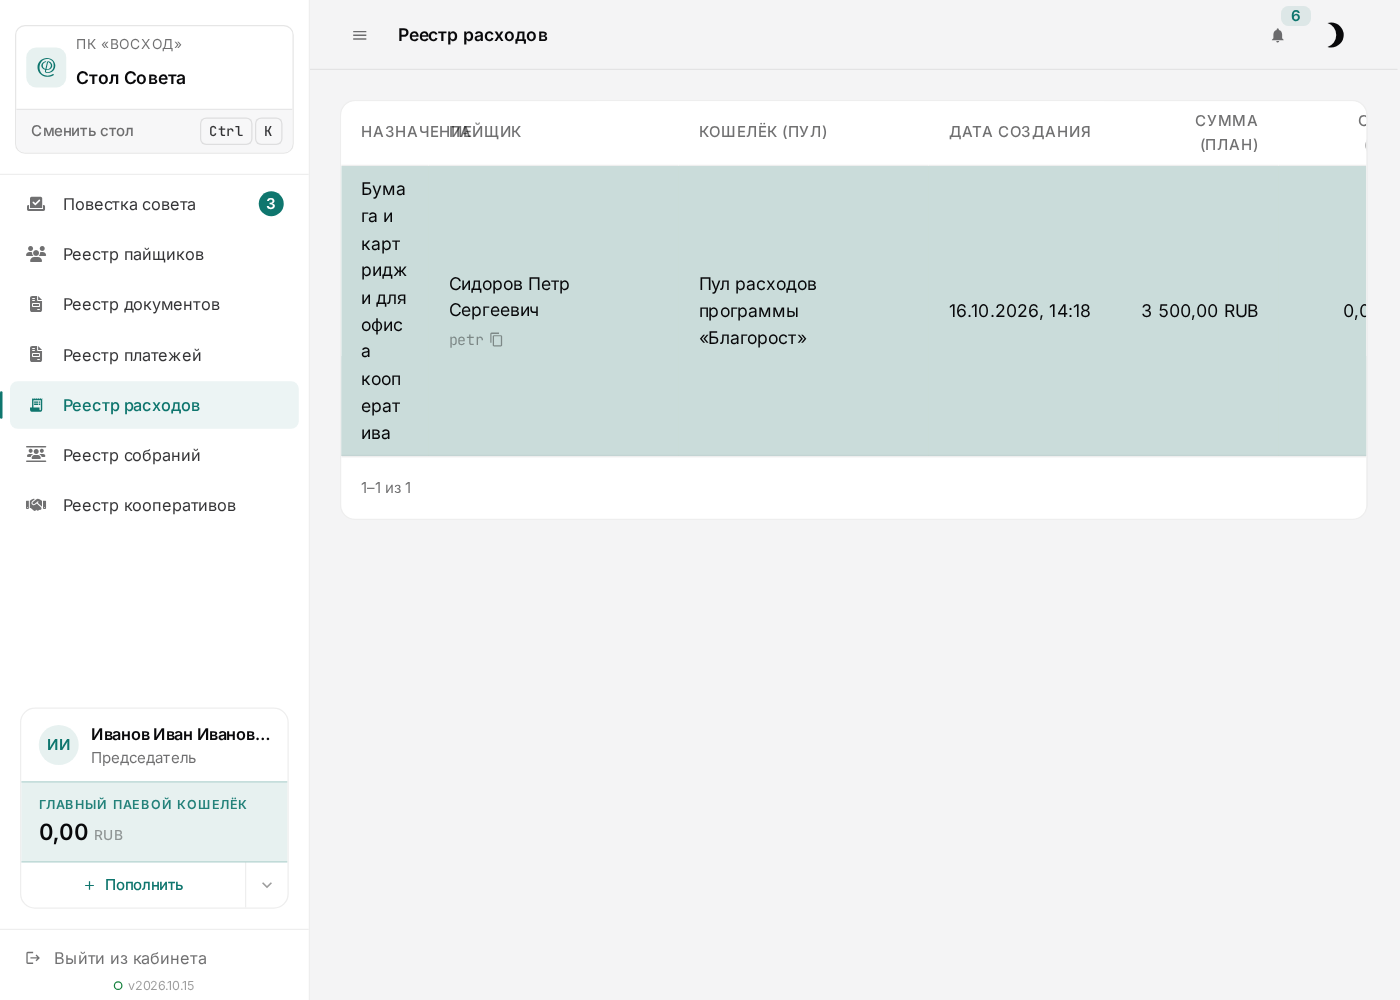
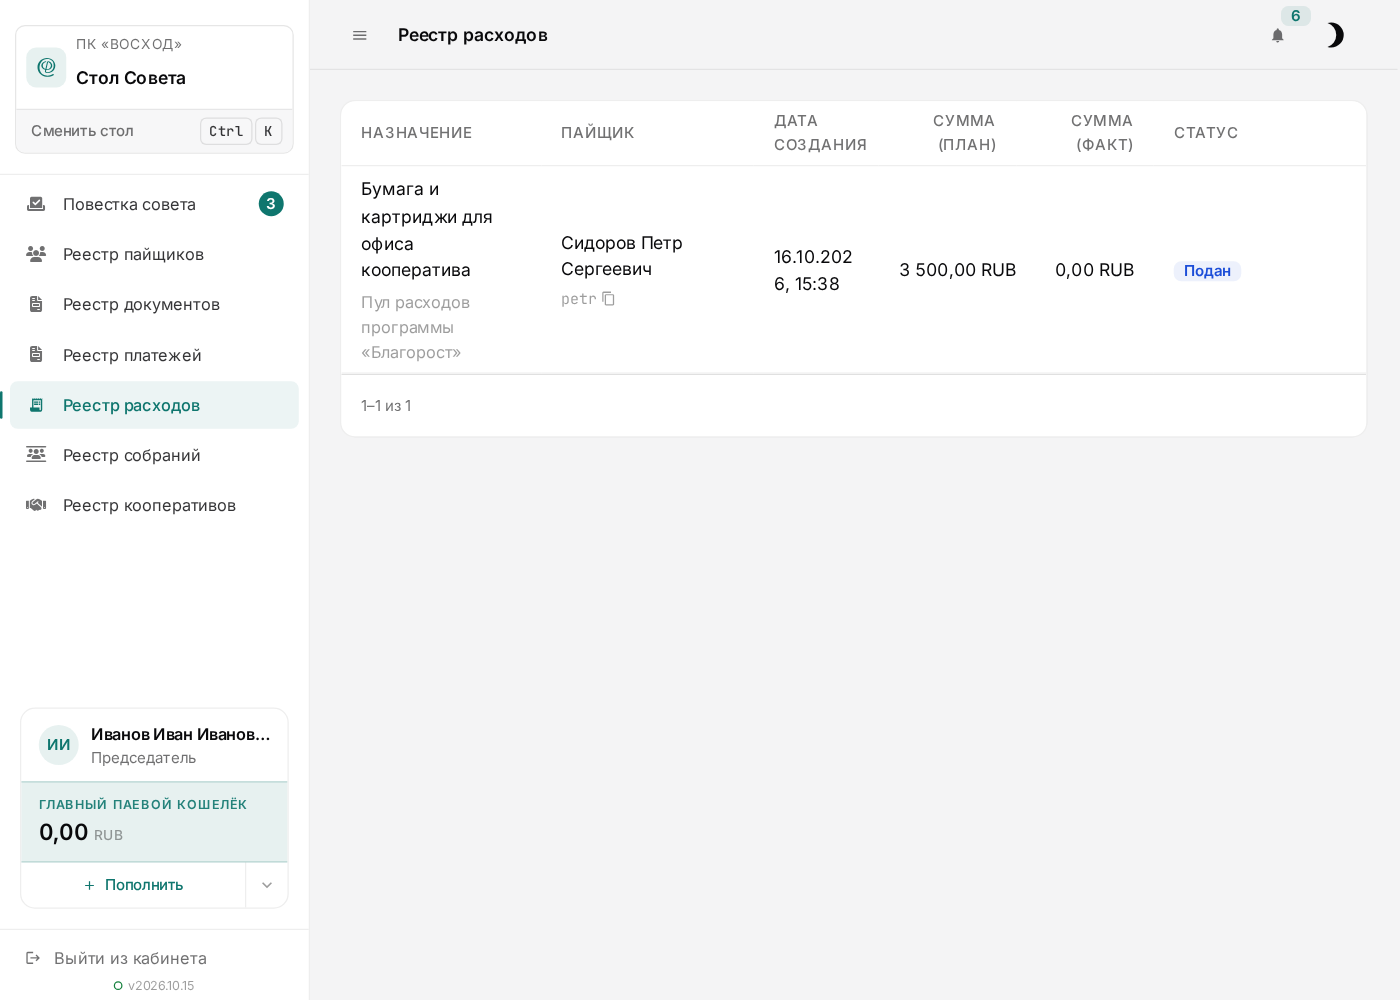
[7DD-25][@ant] fix: реестр расходов совета — дате 120 px, пайщику 150, кадры и текст под строку с кошельком под назначением — зачем: в колонке 100 px год рвался на две строки

Changed region(s): [[0.2457, 0.093, 0.9829, 0.465]]

diff --git a/components/desktop/extensions/expenses/pages/ExpensesRegistryPage.vue b/components/desktop/extensions/expenses/pages/ExpensesRegistryPage.vue
@@ -89,8 +89,8 @@ const { items, loading, firstLoad, totalCount, hasMore, loadMore } = useLiveProp
 // Дата переносится в две строки, кошелёк идёт мета-строкой под назначением.
 const columns = computed<BaseTableColumn<IExpenseProposalRow>[]>(() => [
   { key: 'purpose', label: t('expenses.expensesRegistryPage.column.purpose') },
-  { key: 'member', label: t('expenses.expensesRegistryPage.column.member'), width: '170px' },
-  { key: 'created_at', label: t('expenses.expensesRegistryPage.column.createdAt'), width: '100px' },
+  { key: 'member', label: t('expenses.expensesRegistryPage.column.member'), width: '150px' },
+  { key: 'created_at', label: t('expenses.expensesRegistryPage.column.createdAt'), width: '120px' },
   { key: 'total_planned', label: t('expenses.expensesRegistryPage.column.amountPlan'), width: '110px', numeric: true, nowrap: true },
   { key: 'total_actual', label: t('expenses.expensesRegistryPage.column.amountFact'), width: '110px', numeric: true, nowrap: true },
   { key: 'status', label: t('expenses.expensesRegistryPage.column.status'), width: '170px', nowrap: true },

diff --git a/components/docs/docs/new/expenses/registry.md b/components/docs/docs/new/expenses/registry.md
@@ -12,7 +12,7 @@ tags:
 
 ![Реестр расходов](/assets/new/expenses/registry/01-registry.png)
 
-Строка записки показывает назначение, пайщика-автора с учётным именем, кошелёк-источник, дату создания, сумму по плану и сумму по факту. На кадре записка члена совета на аренду зала к общему собранию из пула расходов программы «Благорост» на семь с половиной тысяч рублей.
+Строка записки показывает назначение и под ним кошелёк-источник, пайщика-автора с учётным именем, дату создания, сумму по плану и сумму по факту. На кадре записка члена совета на аренду зала к общему собранию из пула расходов программы «Благорост» на семь с половиной тысяч рублей.
 
 ![Служебная записка](/assets/new/expenses/registry/02-proposal.png)
 

diff --git a/components/docs/docs/new/council/expenses.md b/components/docs/docs/new/council/expenses.md
@@ -11,7 +11,7 @@ tags:
 
 ![Реестр расходов](/assets/new/council/expenses/01-registry.png)
 
-Строка записки показывает назначение, пайщика-автора с учётным именем, кошелёк-источник, дату, сумму по плану и сумму по факту. На кадре записка на бумагу и картриджи для офиса из пула расходов программы «Благорост».
+Строка записки показывает назначение и под ним кошелёк-источник, пайщика-автора с учётным именем, дату, сумму по плану и сумму по факту. На кадре записка на бумагу и картриджи для офиса из пула расходов программы «Благорост».
 
 ![Служебная записка](/assets/new/council/expenses/02-expense.png)
 
